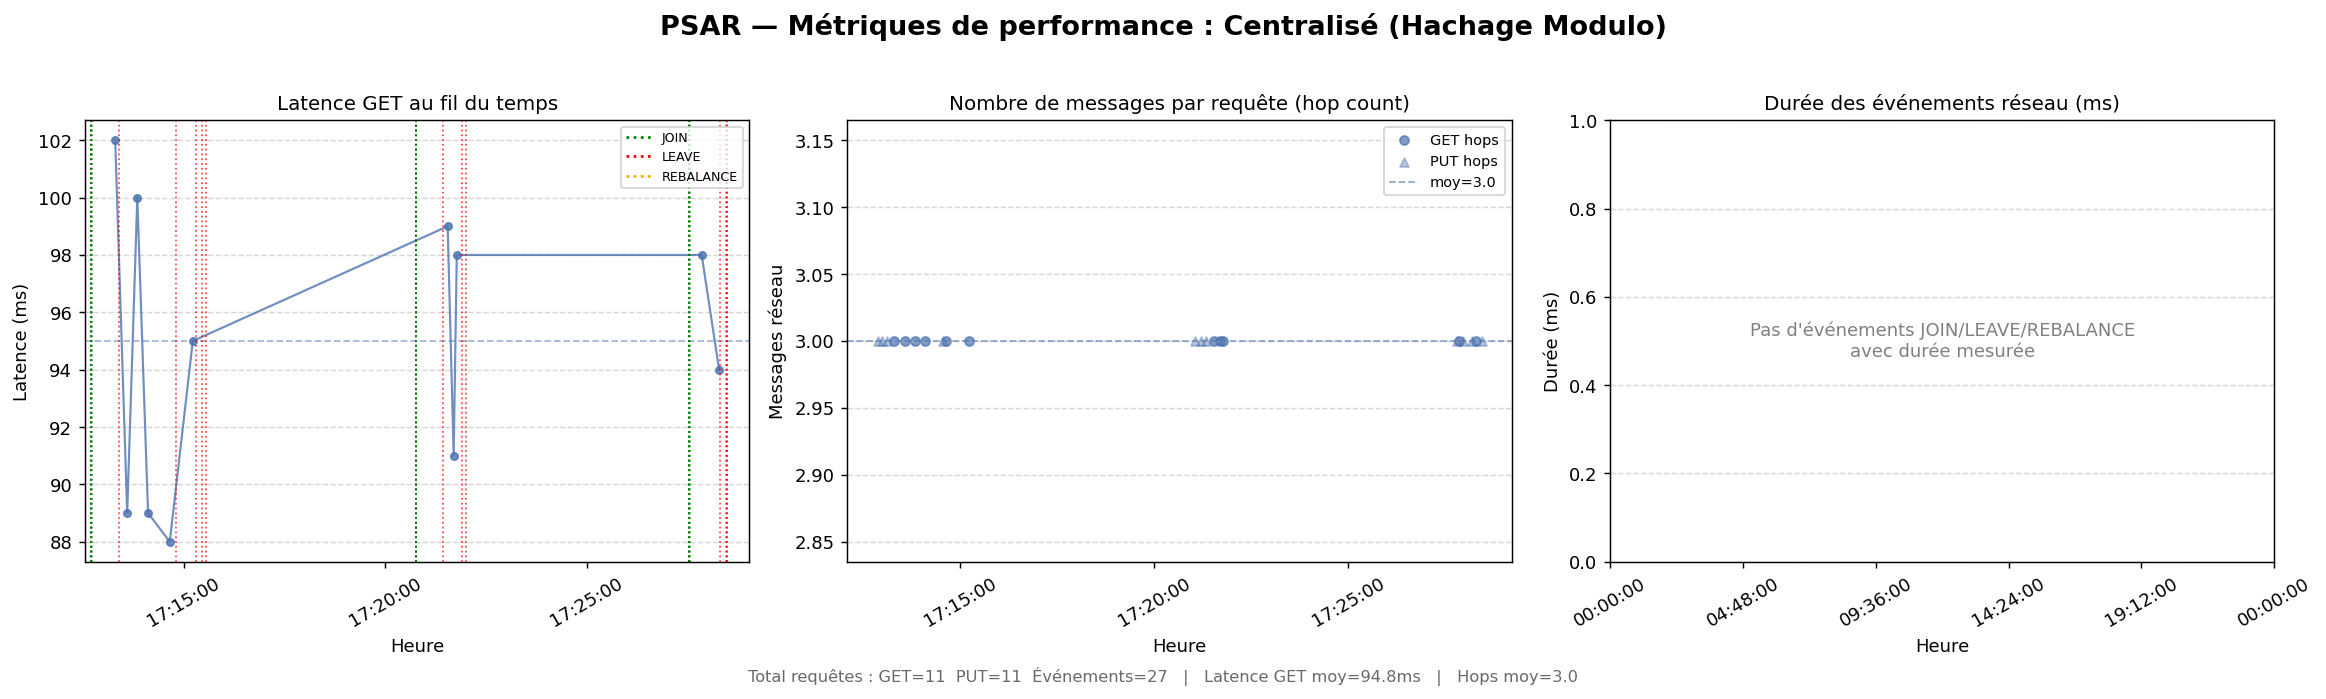
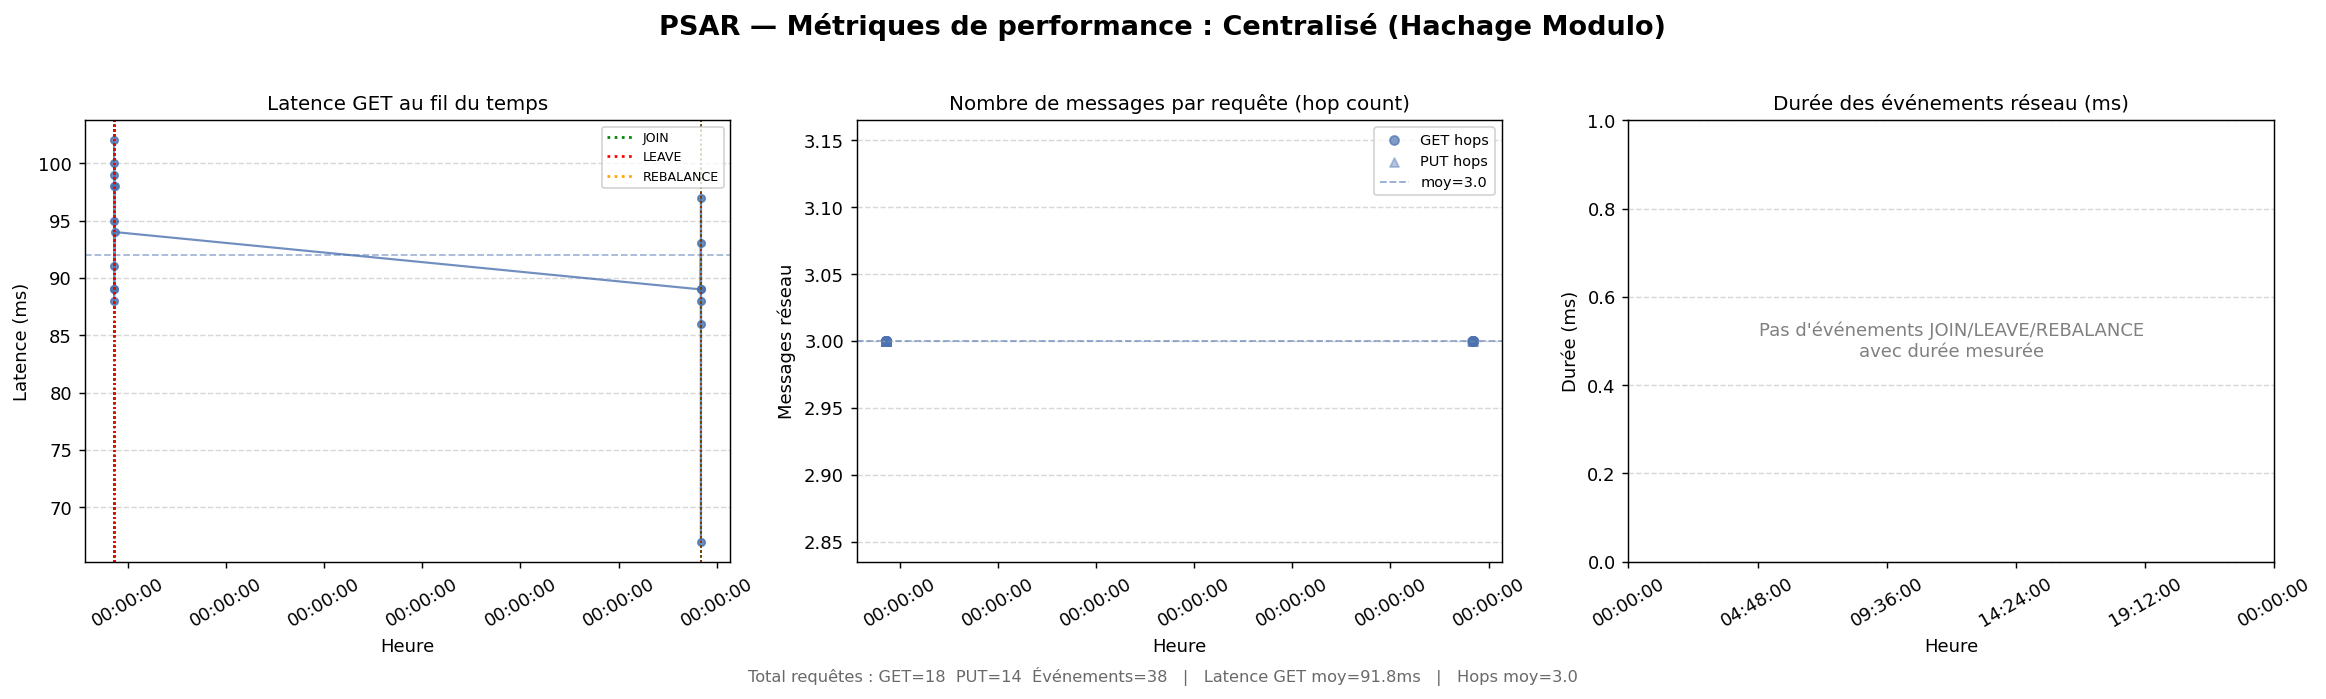
Centralized : Delete <key> implemeted

diff --git a/src/dht/src/moduloHashing/Coordinator.java b/src/dht/src/moduloHashing/Coordinator.java
@@ -127,6 +127,9 @@ public class Coordinator {
             case CLIENT_GET -> {
                 return handleClientGet(msg);
             }
+            case CLIENT_DELETE -> {
+                return handleClientDelete(msg);
+            }
             default -> {
                 return Message.error("Unsupported request on coordinator: " + msg.getType());
             }
@@ -228,6 +231,29 @@ public class Coordinator {
             int finalHops = nodeMsg.getHopCount() + 1 + 1;
             return Message.clientResponse(nodeResp.isFound(), msg.getKey(),
                     nodeResp.getValue(), "Read from " + target, finalHops);
+        }
+
+        return Message.error("Unexpected response from " + target);
+    }
+    
+    private Message handleClientDelete(Message msg) {
+        if (msg.getKey() == null) return Message.error("CLIENT_DELETE missing key");
+        if (storageNodes.isEmpty()) return Message.error("No storage nodes available");
+
+        Address target = Hasher.getTargetNode(msg.getKey(), snapshotNodes());
+
+        Message nodeMsg  = Message.nodeDelete(msg.getKey()).withNextHop();
+        Message nodeResp = sendRequest(target, nodeMsg);
+
+        if (nodeResp == null || nodeResp.getType() == Message.Type.ERROR) {
+            return Message.error("DELETE failed on target " + target);
+        }
+
+        if (nodeResp.getType() == Message.Type.NODE_RESPONSE) {
+            int finalHops = nodeMsg.getHopCount() + 1 + 1;
+            boolean existed = nodeResp.isFound();
+            String info = existed ? "Deleted from " + target : "Key not found on " + target;
+            return Message.clientResponse(existed, msg.getKey(), null, info, finalHops);
         }
 
         return Message.error("Unexpected response from " + target);

diff --git a/src/dht/src/moduloHashing/Client.java b/src/dht/src/moduloHashing/Client.java
@@ -24,7 +24,7 @@ public class Client {
 
         System.out.println("--- Centralized Modulo Hashing Client ---");
         System.out.println("Connected to Coordinator: " + coordinator);
-        System.out.println("Commands: PUT <key> <value> | GET <key> | exit");
+        System.out.println("Commands: PUT <key> <value> | GET <key> | DELETE <key> | exit");
 
         while (true) {
             System.out.print("> ");
@@ -69,6 +69,20 @@ public class Client {
                         System.out.printf("  [metrics] latency=%dms  hops=%d%n", latencyMs, hops);
                     } else {
                         System.out.println("Usage: GET <key>");
+                    }
+                }
+                case "DELETE" -> {
+                    if (parts.length == 2) {
+                        long start = System.nanoTime();
+                        Message response = sendRequest(coordinator, Message.clientDelete(parts[1]));
+                        long latencyMs = (System.nanoTime() - start) / 1_000_000L;
+                        printResponse(response);
+
+                        int hops = (response != null) ? response.getHopCount() : 0;
+                        MetricsLogger.get().log("DELETE", latencyMs, hops, parts[1], "");
+                        System.out.printf("  [metrics] latency=%dms  hops=%d%n", latencyMs, hops);
+                    } else {
+                        System.out.println("Usage: DELETE <key>");
                     }
                 }
 

diff --git a/src/dht/src/moduloHashing/Message.java b/src/dht/src/moduloHashing/Message.java
@@ -13,6 +13,7 @@ public class Message implements Serializable {
     public enum Type {
         CLIENT_PUT,
         CLIENT_GET,
+        CLIENT_DELETE,
         CLIENT_RESPONSE,
 
         REGISTER_NODE,
@@ -20,6 +21,7 @@ public class Message implements Serializable {
 
         NODE_PUT,
         NODE_GET,
+        NODE_DELETE,
         NODE_RESPONSE,
 
         DUMP_REQUEST,
@@ -102,7 +104,10 @@ public class Message implements Serializable {
     public static Message clientGet(String key) {
         return new Message(Type.CLIENT_GET, null, key, null, false, null, null, 1, null, null);
     }
-
+    
+    public static Message clientDelete(String key) {
+        return new Message(Type.CLIENT_DELETE, null, key, null, false, null, null, 1, null, null);
+    }
     
     public static Message clientResponse(boolean found, String key, String value,
                                          String info, int hopCount) {
@@ -129,6 +134,10 @@ public class Message implements Serializable {
 
     public static Message nodeGet(String key) {
         return new Message(Type.NODE_GET, null, key, null, false, null, null);
+    }
+    
+    public static Message nodeDelete(String key) {
+        return new Message(Type.NODE_DELETE, null, key, null, false, null, null);
     }
 
     public static Message nodeResponse(boolean found, String key, String value) {

diff --git a/src/dht/src/moduloHashing/Node.java b/src/dht/src/moduloHashing/Node.java
@@ -146,6 +146,7 @@ public class Node {
         return switch (msg.getType()) {
             case NODE_PUT      -> handleNodePut(msg);
             case NODE_GET      -> handleNodeGet(msg);
+            case NODE_DELETE -> handleNodeDelete(msg);
             case DUMP_REQUEST  -> handleDumpRequest();
             case CLEAR_STORE   -> handleClearStore();
             case REBALANCE     -> handleRebalanceNotice(msg);
@@ -172,6 +173,13 @@ public class Node {
         return Message.nodeResponse(found, msg.getKey(), value);
     }
  
+    private Message handleNodeDelete(Message msg) {
+        if (msg.getKey() == null) return Message.error("NODE_DELETE missing key");
+        boolean existed = store.remove(msg.getKey()) != null;
+        System.out.println("[DELETE] " + self + " delete key=" + msg.getKey() + " existed=" + existed);
+        return Message.nodeResponse(existed, msg.getKey(), null);
+    }
+    
     private Message handleDumpRequest() {
         return Message.dumpResponse(self, new HashMap<>(store));
     }
